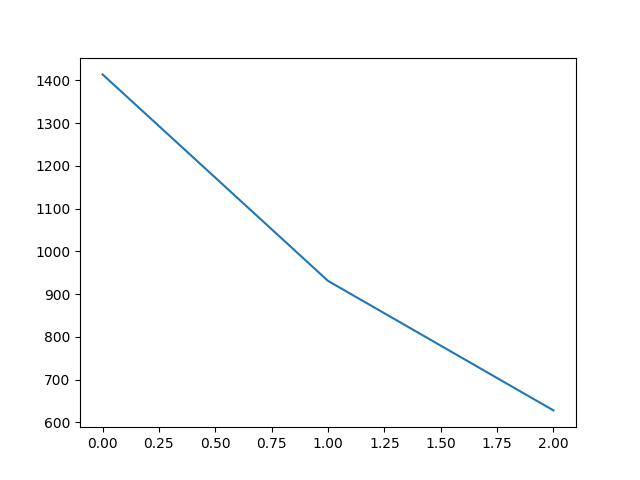
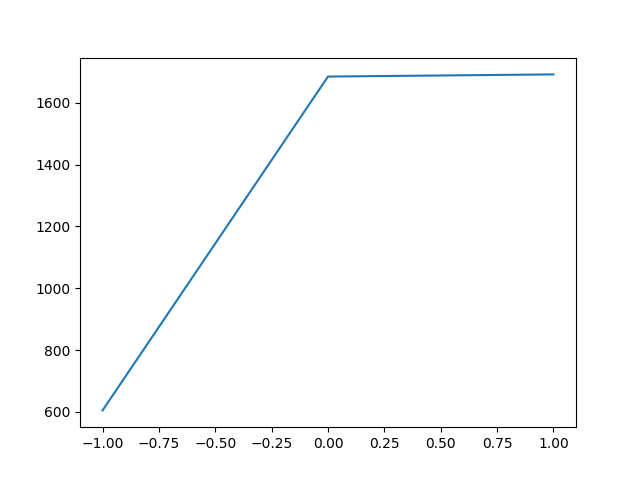
Runnable version 2

diff --git a/lmh/templates/index.html b/lmh/templates/index.html
@@ -1,0 +1,22 @@
+<html>
+
+<title>Sentiment Analysis Result</title>
+
+<body>
+
+<h1>News-Twitter Sentiment Analysis</h1>
+
+<h2>News Collection</h2>
+<iframe src="../text/News/news.txt" width="600" height = "400">
+  <p>Your browser does not support iframes.</p>
+</iframe><br/>
+
+<h2>Keywords Extraction</h2>
+<iframe src="../text/News/keywords.txt" width="150" height = "200">
+  <p>Your browser does not support iframes.</p>
+</iframe><br />
+<h2>Gross Sentiment Analysis</h2>
+<img src="../img/stat.png" alt="plot"/>
+
+</body>
+</html>

diff --git a/lmh/Listener.py b/lmh/Listener.py
@@ -21,22 +21,22 @@ api = tweepy.API(auth)
 
 #Twitter Stream Listener
 class KafkaPushListener(StreamListener):          
-	def __init__(self):
-		#localhost:9092 = Default Zookeeper Producer Host and Port Adresses
-		self.client = pykafka.KafkaClient("localhost:9092")
-		
-		#Get Producer that has topic name is Twitter
-		self.producer = self.client.topics[bytes("twitter", "ascii")].get_producer()
-  
-	def on_data(self, data):
-		#Producer produces data for consumer
-		#Data comes from Twitter
-		self.producer.produce(bytes(data, "ascii"))
-		return True
-                                                                                                                                           
-	def on_error(self, status):
-		print(status)
-		return True
+    def __init__(self):
+        #localhost:9092 = Default Zookeeper Producer Host and Port Adresses
+        self.client = pykafka.KafkaClient("localhost:9092")
+
+        #Get Producer that has topic name is Twitter
+        self.producer = self.client.topics[bytes("twitter", "ascii")].get_producer()
+
+    def on_data(self, data):
+        #Producer produces data for consumer
+        #Data comes from Twitter
+        self.producer.produce(bytes(data, "ascii"))
+        return True
+                                                                                                                  
+    def on_error(self, status):
+        print(status)
+        return True
 
 #Twitter Stream Config
 twitter_stream = Stream(auth, KafkaPushListener())
@@ -44,29 +44,34 @@ twitter_stream = Stream(auth, KafkaPushListener())
 #Produce Data that has Game of Thrones hashtag (Tweets)
 
 while True:
-	headlines = client.get_top_headlines(language = 'en', country = 'us')
-	titles = []
-	for article in headlines['articles']:
-    		temp_title = article['title'].encode('ascii', 'ignore').decode('ascii')
-    		print(temp_title)
-    		titles.append(temp_title)
-	#titles = titles[:3]
+    headlines = client.get_top_headlines(language = 'en', country = 'us')
+    titles = []
+    with open('text/News/news.txt', 'w') as f:
+        for article in headlines['articles']:
+            temp_title = article['title'].encode('ascii', 'ignore').decode('ascii')
+            print(temp_title)
+            titles.append(temp_title)
+            f.write(temp_title + '\n\n')
 
-	keywords = []
-	for text in titles:    
-    		for sent in sent_tokenize(text):
-        		for chunk in ne_chunk(pos_tag(word_tokenize(sent))):
-            			if hasattr(chunk, 'label'):
-                			if chunk.label() == 'PERSON' or chunk.label() == 'ORGANIZATION' or chunk.label() == 'LOCATION':
-                    				keywords.append(' '.join(c[0] for c in chunk.leaves()))
-	print(keywords)
+    keywords = []
+    for text in titles:    
+        for sent in sent_tokenize(text):
+            for chunk in ne_chunk(pos_tag(word_tokenize(sent))):
+            	if hasattr(chunk, 'label'):
+                    if chunk.label() == 'PERSON' or chunk.label() == 'ORGANIZATION' or chunk.label() == 'LOCATION':
+                        keywords.append(' '.join(c[0] for c in chunk.leaves()))
+    print(keywords)
+    with open('text/News/keywords.txt', 'w') as f:
+        for keyword in keywords:
+            f.write(keyword + '\n')
 
-	if twitter_stream.running is True:
-		twitter_stream.disconnect()
-		time.sleep(5)
+    if twitter_stream.running is True:
+        twitter_stream.disconnect()
+        time.sleep(5)
 
-	if not keywords:
-		print('no keywords to listen to')
-	else:
-		twitter_stream.filter(track = keywords, languages = ['en'], async = True)
-	time.sleep(115)
+    if not keywords:
+        print('no keywords to listen to')
+    else:
+        twitter_stream.filter(track = keywords, languages = ['en'], async = True)
+	
+    time.sleep(115)

diff --git a/lmh/Processing.py b/lmh/Processing.py
@@ -85,8 +85,9 @@ def make_plot(count):
     for k, v in s_final:
         s_list[k] = v
 
+    s_list.reverse()
     plt.figure()
-    plt.plot(s_list)
+    plt.plot([-1, 0, 1], s_list)
     plt.savefig(img_path + 'stat.png')
     plt.close()
 
